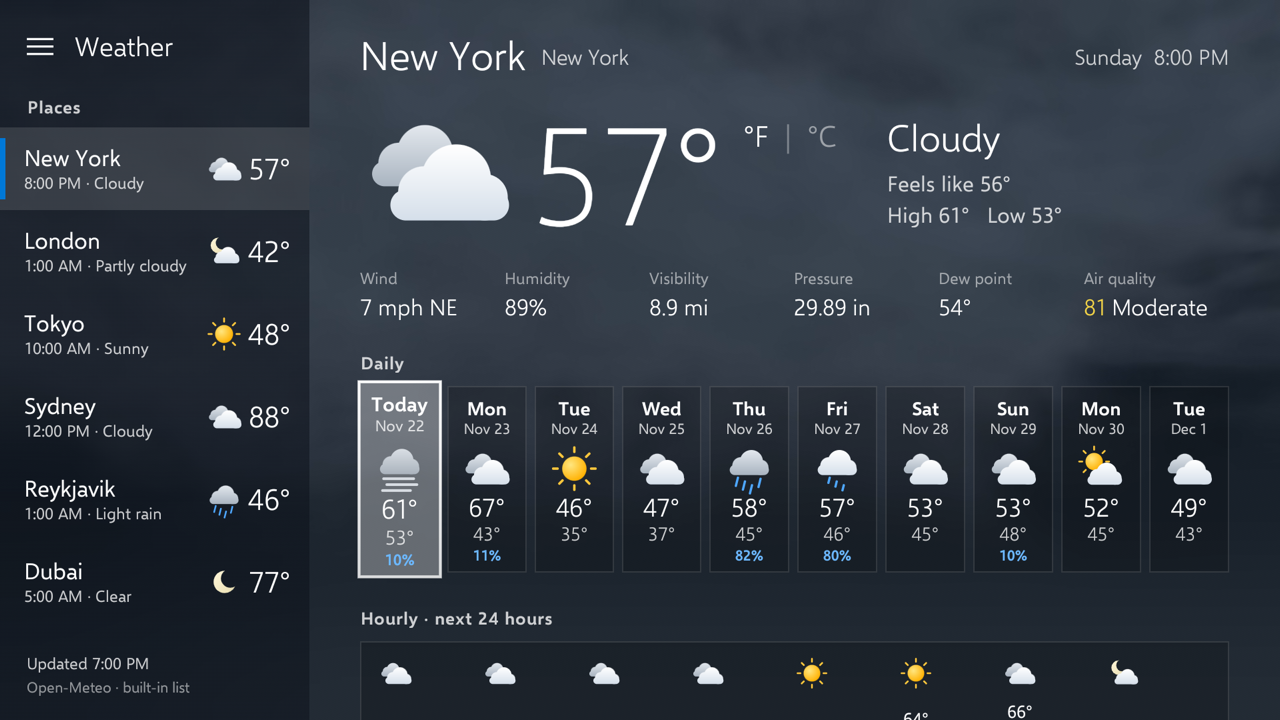
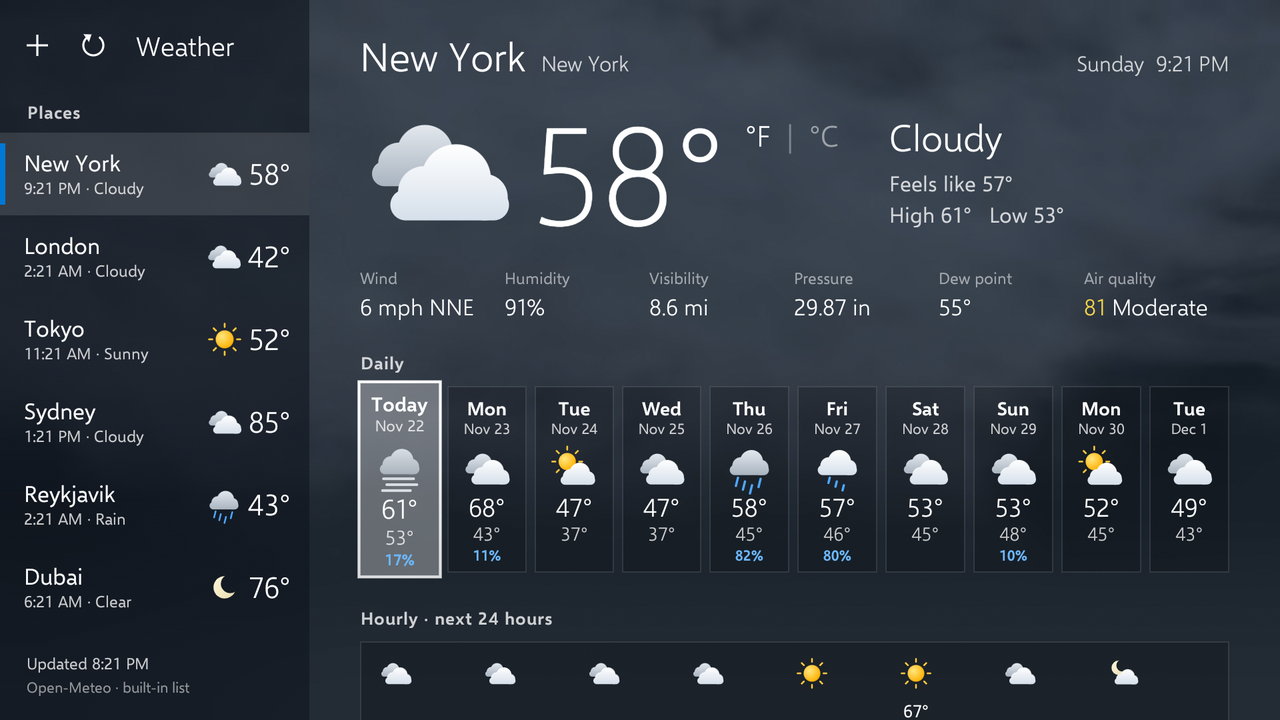
0.3.1: Rename in the place menu; new screenshots
- Menu is now Rename, Rearrange, Delete. Rename opens a text box with the name
  and the keyboard; the keyboard's action key (or closing it) moves to Save,
  Back returns to the menu. Same coordinates, so no refetch.
- Returning to the city list also scrolls the page back to the top.
- README: retaken screenshots (new header), plus search, menu, rename and
  rearrange close-ups; remote table updated.

diff --git a/src/io/github/vladislavekimtcov/acrylicweather/Main.java b/src/io/github/vladislavekimtcov/acrylicweather/Main.java
@@ -80,7 +80,8 @@ public final class Main extends Activity {
     private Finder finder;
     /** The place being moved by Rearrange, or -1. */
     private int moving = -1, moveStart;
-    private boolean confirming;
+    /** In a step under the menu (rename, delete's question): Back returns to this menu item; else -1. */
+    private int menuReturn = -1;
     private LinearLayout rowsBox;
     private final List<PlaceRow> rows = new ArrayList<>();
     private TextView updated, source;
@@ -491,8 +492,10 @@ public final class Main extends Activity {
             final int k = i;
             r.setOnFocusChangeListener((v, has) -> {
                 if (!has || moving >= 0) return;
-                // Back in the list, every place shows today: the days are browsed one city at a time.
+                // Back in the list, every place shows today from the top: the days are browsed one
+                // city at a time.
                 if (dayIndex != 0) selectDay(0, true);
+                if (scroller.getScrollY() != 0) scroller.smoothScrollTo(0, 0);
                 if (k != current) {
                     ui.removeCallbacks(pendingPlace);
                     ui.postDelayed(pendingPlace, 220);
@@ -821,20 +824,41 @@ public final class Main extends Activity {
     private void showMenu(int focus) {
         PlaceRow row = rows.get(current);
         row.requestFocus(); // hold focus here while the flyout's items are swapped
-        confirming = false;
+        menuReturn = -1;
+        // The last place can't be deleted: the list is never empty.
         boolean one = places.list.size() < 2;
-        String[] labels = one ? new String[] {"Rearrange"} : new String[] {"Delete", "Rearrange"};
-        Runnable[] actions = one ? new Runnable[] {this::startMove} : new Runnable[] {this::confirmDelete, this::startMove};
+        String[] labels = one ? new String[] {"Rename", "Rearrange"} : new String[] {"Rename", "Rearrange", "Delete"};
+        Runnable[] actions = one ? new Runnable[] {this::rename, this::startMove}
+                : new Runnable[] {this::rename, this::startMove, this::confirmDelete};
         menu.open(Ui.dp(232), rowTop(row), null, labels, actions, focus);
+    }
+
+    private void rename() {
+        PlaceRow row = rows.get(current);
+        row.requestFocus();
+        menuReturn = 0;
+        menu.openEditor(Ui.dp(232), rowTop(row), "Rename", places.list.get(current).name, this::applyRename, () -> showMenu(0));
+    }
+
+    private void applyRename(String typed) {
+        String name = typed.trim();
+        Places.Place old = places.list.get(current);
+        if (!name.isEmpty() && !name.equals(old.name)) {
+            places.list.set(current, new Places.Place(Places.clean(name), old.region, old.lat, old.lon));
+            persist(); // same coordinates: the forecast and its cache still fit
+            refreshRows();
+            city.setText(places.list.get(current).name);
+        }
+        closeMenu();
     }
 
     private void confirmDelete() {
         PlaceRow row = rows.get(current);
         row.requestFocus();
-        confirming = true;
+        menuReturn = 2;
         // Focus starts on Cancel: OK twice in a row doesn't delete.
         menu.open(Ui.dp(232), rowTop(row), "Delete " + places.list.get(current).name + "?",
-                new String[] {"Delete", "Cancel"}, new Runnable[] {this::deleteCurrent, () -> showMenu(0)}, 1);
+                new String[] {"Delete", "Cancel"}, new Runnable[] {this::deleteCurrent, () -> showMenu(2)}, 1);
     }
 
     private float rowTop(View row) {
@@ -845,7 +869,7 @@ public final class Main extends Activity {
     }
 
     private void closeMenu() {
-        confirming = false;
+        menuReturn = -1;
         if (!rows.isEmpty()) rows.get(current).requestFocus();
         menu.close();
     }
@@ -859,7 +883,7 @@ public final class Main extends Activity {
             data = d;
         }
         current = Math.min(i, places.list.size() - 1);
-        confirming = false;
+        menuReturn = -1;
         buildRows();
         show(current, true);
         rows.get(current).requestFocus();
@@ -872,7 +896,7 @@ public final class Main extends Activity {
     private void startMove() {
         rows.get(current).requestFocus();
         menu.close();
-        confirming = false;
+        menuReturn = -1;
         moving = moveStart = current;
         for (int i = 0; i < rows.size(); i++) {
             rows.get(i).animate().alpha(i == moving ? 1f : 0.42f).setDuration(160).setInterpolator(EASE).start();
@@ -990,14 +1014,15 @@ public final class Main extends Activity {
         if (e.getAction() == KeyEvent.ACTION_DOWN) {
             if (menu.isOpen()) {
                 View f = getCurrentFocus();
-                if (f == null || f.getParent() != menu) {
+                boolean typing = f instanceof android.widget.EditText; // left/right move its cursor
+                if (!menu.owns(f)) {
                     closeMenu();
                 } else if (code == KeyEvent.KEYCODE_BACK || code == KeyEvent.KEYCODE_MENU
-                        || code == KeyEvent.KEYCODE_DPAD_LEFT) {
-                    if (confirming && code == KeyEvent.KEYCODE_BACK) showMenu(0);
+                        || code == KeyEvent.KEYCODE_DPAD_LEFT && !typing) {
+                    if (menuReturn >= 0 && code == KeyEvent.KEYCODE_BACK) showMenu(menuReturn);
                     else closeMenu();
                     return true;
-                } else if (code == KeyEvent.KEYCODE_DPAD_RIGHT) {
+                } else if (code == KeyEvent.KEYCODE_DPAD_RIGHT && !typing) {
                     return true;
                 }
             }

diff --git a/src/io/github/vladislavekimtcov/acrylicweather/Flyout.java b/src/io/github/vladislavekimtcov/acrylicweather/Flyout.java
@@ -5,6 +5,7 @@ import android.graphics.Canvas;
 import android.graphics.Paint;
 import android.graphics.Rect;
 import android.graphics.drawable.GradientDrawable;
+import android.text.InputFilter;
 import android.view.Gravity;
 import android.view.View;
 import android.view.animation.DecelerateInterpolator;
@@ -19,6 +20,12 @@ import android.widget.TextView;
 final class Flyout extends LinearLayout {
     private static final DecelerateInterpolator EASE = new DecelerateInterpolator(2f);
     private Item[] items = new Item[0];
+    /** The text box while renaming, else null. */
+    private Finder.SearchBox field;
+
+    interface Edit {
+        void done(String text);
+    }
 
     Flyout(Context c) {
         super(c);
@@ -41,12 +48,54 @@ final class Flyout extends LinearLayout {
      * and focuses item {@code focus}. A title, if any, sits above the items and can't be focused.
      */
     void open(float x, float y, String title, String[] labels, Runnable[] actions, int focus) {
+        build(title, null, labels, actions);
+        place(x, y);
+        items[Math.max(0, Math.min(items.length - 1, focus))].requestFocus();
+    }
+
+    /**
+     * A text box filled with {@code text} and the keyboard up, Save and Cancel below. The
+     * keyboard's own action key (or closing it) moves to Save.
+     */
+    void openEditor(float x, float y, String title, String text, Edit save, Runnable cancel) {
+        Finder.SearchBox box = new Finder.SearchBox(getContext(), "Name", false);
+        box.setFilters(new InputFilter[] {new InputFilter.LengthFilter(40)});
+        box.setText(text);
+        box.setSelection(box.length());
+        box.setImeOptions(android.view.inputmethod.EditorInfo.IME_ACTION_DONE
+                | android.view.inputmethod.EditorInfo.IME_FLAG_NO_EXTRACT_UI
+                | android.view.inputmethod.EditorInfo.IME_FLAG_NO_FULLSCREEN);
+        build(title, box, new String[] {"Save", "Cancel"},
+                new Runnable[] {() -> save.done(box.getText().toString()), cancel});
+        box.setOnEditorActionListener((v, action, event) -> {
+            if (event != null && event.getAction() != android.view.KeyEvent.ACTION_DOWN) return true;
+            Ui.keyboard(box, false);
+            items[0].requestFocus();
+            return true;
+        });
+        place(x, y);
+        box.requestFocus();
+        postDelayed(() -> {
+            if (field == box && box.isFocused()) Ui.keyboard(box, true);
+        }, 120);
+    }
+
+    private void build(String title, Finder.SearchBox box, String[] labels, Runnable[] actions) {
+        if (field != null) Ui.keyboard(field, false);
         removeAllViews();
+        field = box;
         if (title != null) {
             TextView t = Ui.text(getContext(), 14, Ui.MUTED, Ui.semibold);
             t.setText(title);
             t.setPadding(Ui.dp(18), Ui.dp(8), Ui.dp(18), Ui.dp(6));
             addView(t);
+        }
+        if (box != null) {
+            LayoutParams lp = new LayoutParams(Ui.dp(300), Ui.dp(46));
+            lp.leftMargin = lp.rightMargin = Ui.dp(14);
+            lp.topMargin = Ui.dp(2);
+            lp.bottomMargin = Ui.dp(8);
+            addView(box, lp);
         }
         items = new Item[labels.length];
         for (int i = 0; i < labels.length; i++) {
@@ -58,11 +107,15 @@ final class Flyout extends LinearLayout {
         }
         for (int i = 0; i < items.length; i++) {
             Item it = items[i];
-            it.setNextFocusUpId(items[Math.max(0, i - 1)].getId());
+            it.setNextFocusUpId(i == 0 && box != null ? box.getId() : items[Math.max(0, i - 1)].getId());
             it.setNextFocusDownId(items[Math.min(items.length - 1, i + 1)].getId());
             it.setNextFocusLeftId(it.getId());
             it.setNextFocusRightId(it.getId());
         }
+        if (box != null) box.setNextFocusDownId(items[0].getId());
+    }
+
+    private void place(float x, float y) {
         View parent = (View) getParent();
         measure(MeasureSpec.makeMeasureSpec(0, MeasureSpec.UNSPECIFIED), MeasureSpec.makeMeasureSpec(0, MeasureSpec.UNSPECIFIED));
         float maxY = parent.getHeight() - getMeasuredHeight() - Ui.dp(12);
@@ -77,10 +130,16 @@ final class Flyout extends LinearLayout {
             setTranslationX(-Ui.px(16));
             animate().alpha(1f).translationX(0).setDuration(170).setInterpolator(EASE).start();
         }
-        items[Math.max(0, Math.min(items.length - 1, focus))].requestFocus();
+    }
+
+    /** True if the view is one of the flyout's own (an item or the text box). */
+    boolean owns(View v) {
+        return v != null && v.getParent() == this;
     }
 
     void close() {
+        if (field != null) Ui.keyboard(field, false);
+        field = null;
         animate().cancel();
         setVisibility(GONE);
         removeAllViews();

diff --git a/src/io/github/vladislavekimtcov/acrylicweather/Finder.java b/src/io/github/vladislavekimtcov/acrylicweather/Finder.java
@@ -17,7 +17,6 @@ import android.view.KeyEvent;
 import android.view.View;
 import android.view.animation.DecelerateInterpolator;
 import android.view.inputmethod.EditorInfo;
-import android.view.inputmethod.InputMethodManager;
 import android.widget.EditText;
 import android.widget.FrameLayout;
 import android.widget.LinearLayout;
@@ -68,7 +67,7 @@ final class Finder extends LinearLayout {
         setPadding(Ui.dp(16), Ui.dp(16), Ui.dp(16), Ui.dp(12));
         setVisibility(GONE);
 
-        field = new SearchBox(c);
+        field = new SearchBox(c, "Search for a city", true);
         field.addTextChangedListener(new TextWatcher() {
             @Override
             public void beforeTextChanged(CharSequence s, int start, int count, int after) {}
@@ -166,10 +165,7 @@ final class Finder extends LinearLayout {
     }
 
     private void keyboard(boolean show) {
-        InputMethodManager imm = (InputMethodManager) getContext().getSystemService(Context.INPUT_METHOD_SERVICE);
-        if (imm == null) return;
-        if (show) imm.showSoftInput(field, 0);
-        else imm.hideSoftInputFromWindow(field.getWindowToken(), 0);
+        Ui.keyboard(field, show);
     }
 
     private void searchNow() {
@@ -238,20 +234,22 @@ final class Finder extends LinearLayout {
     /** Windows 10's dark text box: black when focused with an accent border, a magnifier on the right. */
     static final class SearchBox extends EditText {
         private final Paint p = new Paint(Paint.ANTI_ALIAS_FLAG);
+        private final boolean magnifier;
 
-        SearchBox(Context c) {
+        SearchBox(Context c, String hint, boolean magnifier) {
             super(c);
+            this.magnifier = magnifier;
             setId(View.generateViewId());
             setBackground(null);
             setTextSize(TypedValue.COMPLEX_UNIT_SP, 18);
             setTextColor(Ui.WHITE);
             setHintTextColor(0x8CFFFFFF);
-            setHint("Search for a city");
+            setHint(hint);
             setTypeface(Ui.regular);
             setIncludeFontPadding(false);
             setSingleLine(true);
             setGravity(Gravity.CENTER_VERTICAL);
-            setPadding(Ui.dp(12), 0, Ui.dp(44), 0);
+            setPadding(Ui.dp(12), 0, Ui.dp(magnifier ? 44 : 12), 0);
             setInputType(InputType.TYPE_CLASS_TEXT | InputType.TYPE_TEXT_FLAG_CAP_WORDS
                     | InputType.TYPE_TEXT_FLAG_NO_SUGGESTIONS);
             setImeOptions(EditorInfo.IME_ACTION_SEARCH | EditorInfo.IME_FLAG_NO_EXTRACT_UI
@@ -280,14 +278,17 @@ final class Finder extends LinearLayout {
             p.setColor(f ? Ui.ACCENT : 0x8CFFFFFF);
             float i = Ui.px(1);
             c.drawRect(sx + i, i, sx + w - i, h - i, p);
-            // Magnifier.
+            if (magnifier) drawMagnifier(c, sx, w, h);
+            super.onDraw(c);
+        }
+
+        private void drawMagnifier(Canvas c, int sx, float w, float h) {
             p.setColor(Ui.WHITE);
             p.setStrokeWidth(Ui.px(1.6f));
             float r = Ui.px(6.5f), cx = sx + w - Ui.px(24), cy = h / 2 - Ui.px(2);
             c.drawCircle(cx, cy, r, p);
             float d = r * 0.7071f;
             c.drawLine(cx - d, cy + d, cx - d - Ui.px(6), cy + d + Ui.px(6), p);
-            super.onDraw(c);
         }
     }
 

diff --git a/src/io/github/vladislavekimtcov/acrylicweather/Ui.java b/src/io/github/vladislavekimtcov/acrylicweather/Ui.java
@@ -5,6 +5,8 @@ import android.graphics.Typeface;
 import android.text.TextPaint;
 import android.util.DisplayMetrics;
 import android.util.TypedValue;
+import android.view.View;
+import android.view.inputmethod.InputMethodManager;
 import android.widget.TextView;
 
 /** Sizes, type and colours shared by every view. The look is Windows 10's: square, light, translucent. */
@@ -84,6 +86,14 @@ final class Ui {
         int ba = b >>> 24, br = (b >> 16) & 0xFF, bg = (b >> 8) & 0xFF, bb = b & 0xFF;
         return (Math.round(aa + (ba - aa) * t) << 24) | (Math.round(ar + (br - ar) * t) << 16)
                 | (Math.round(ag + (bg - ag) * t) << 8) | Math.round(ab + (bb - ab) * t);
+    }
+
+    /** Shows the system keyboard for a text box, or hides it. */
+    static void keyboard(View field, boolean show) {
+        InputMethodManager imm = (InputMethodManager) field.getContext().getSystemService(Context.INPUT_METHOD_SERVICE);
+        if (imm == null) return;
+        if (show) imm.showSoftInput(field, 0);
+        else imm.hideSoftInputFromWindow(field.getWindowToken(), 0);
     }
 
     static int alpha(int color, float a) {

diff --git a/README.md b/README.md
@@ -13,13 +13,21 @@ key, no ads, no analytics.
   <img src="docs/screens/places.png" alt="Switching places in the sidebar: Sydney under a cloudy sky" width="420">
   <img src="docs/screens/details.png" alt="Hourly temperature curve with rain chances, and day details: sun arc, moon phase, wind" width="420">
 </p>
+<p align="center">
+  <img src="docs/screens/search.png" alt="Adding a place: the + button's search box lists every Springfield with its state" width="420">
+  <img src="docs/screens/menu.png" alt="The Menu button's flyout beside a place: Rename, Rearrange, Delete" width="420">
+</p>
+<p align="center">
+  <img src="docs/screens/rename.png" alt="Renaming a place with the on-screen keyboard: a text box with Save and Cancel" width="420">
+  <img src="docs/screens/rearrange.png" alt="Rearranging: the place being moved is lit with arrows, the others dimmed" width="420">
+</p>
 
 - **Built for the D-pad.** Every screen works with up, down, left, right, OK and Back. No touch,
   no pointer, no keyboard.
 - **Your places, in a sidebar** like Windows 10's. The app never asks where the TV is: you add
   cities by name with **+** (searched on Open-Meteo with the TV's on-screen keyboard), or list
-  them in a small text file. Up to 12; the first one opens first. **☰ Menu** on a place deletes
-  it or moves it up and down the list.
+  them in a small text file. Up to 12; the first one opens first. **☰ Menu** on a place renames
+  it, moves it up or down the list, or deletes it.
 - **Animated skies.** Fourteen seamless loops (clear, partly cloudy, cloudy, fog, rain, snow, each
   by day and by night, plus a thunderstorm and golden hour), rendered with Metal on a Mac and played
   by the TV's hardware video decoder. Over the clear and partly cloudy skies, clouds drift by live
@@ -54,8 +62,8 @@ key, no ads, no analytics.
 | ▼ from the days | the hourly graph; ◀ ▶ moves hour by hour |
 | ▲ from the days | the `°F \| °C` switch; OK toggles |
 | ▲ from the first place | **+** (OK: search for a city, pick it to add it) and, to its right, refresh |
-| ☰ Menu | the selected place's menu: **Delete** (asks first) or **Rearrange** (▲ ▼ move it, OK or Back puts it down) |
-| Back | to the sidebar and back to today, then out |
+| ☰ Menu | the selected place's menu: **Rename** (keyboard, then Save), **Rearrange** (▲ ▼ move it, OK or Back puts it down), **Delete** (asks first) |
+| Back | to the sidebar, today and the top of the page; then out |
 
 ## Install
 
@@ -72,7 +80,7 @@ with a banner for Android TV and Fire TV home screens.
 ### Your places
 
 On the TV: **+** at the top of the sidebar searches Open-Meteo's place names as you type; pick a
-match to add it. ☰ Menu on a place deletes or moves it. The app keeps the list in `places.conf` in
+match to add it. ☰ Menu on a place renames, moves or deletes it. The app keeps the list in `places.conf` in
 its media folder, so it can also be written from a computer. Copy
 [`places.example.conf`](places.example.conf) to `places.conf` and list your cities:
 
@@ -88,7 +96,7 @@ Push it to `/sdcard/Android/media/io.github.vladislavekimtcov.acrylicweather/pla
 Android TV, no root: adb can write an app's media folder) and reopen the app. Coordinates:
 `https://geocoding-api.open-meteo.com/v1/search?name=<city>`. Without a file it shows New York,
 London, Tokyo, Sydney, Reykjavik and Dubai, and leaves a commented `places.conf.example` there.
-Adding, deleting or moving a place on the TV rewrites `places.conf` (comments in it are replaced
+Adding, renaming, moving or deleting a place on the TV rewrites `places.conf` (comments in it are replaced
 by the app's own header; places and settings are kept), so `adb pull` it before pushing an older
 copy over it.
 
